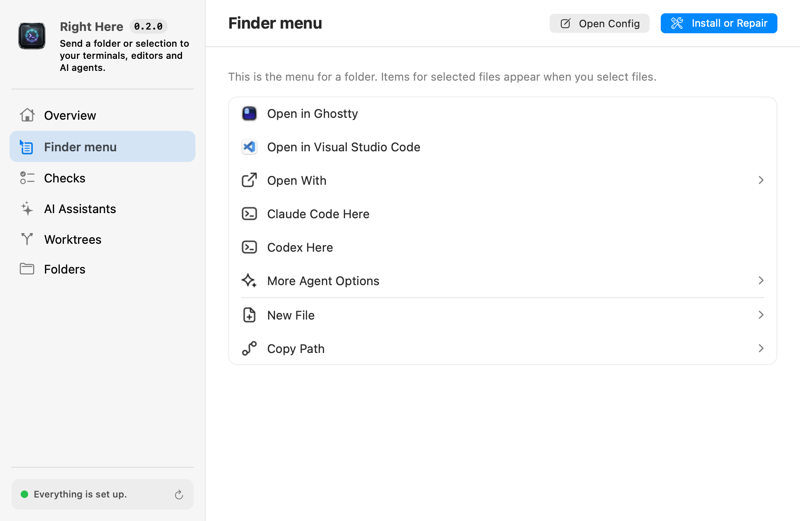
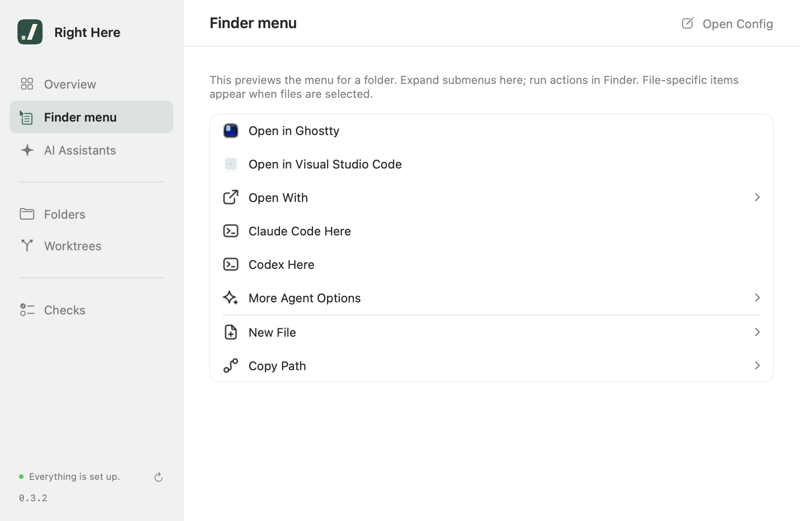
Clarify menu preview interactions and refresh product screenshots

diff --git a/Sources/RightHereCore/Localization/Localizations.generated.swift b/Sources/RightHereCore/Localization/Localizations.generated.swift
@@ -2386,36 +2386,36 @@ enum Localizations {
     ]
 
     private static let appMenuCaption: [String: String] = [
-        "en": "This is the menu for a folder. Items for selected files appear when you select files.",
-        "ar": "هذه قائمة المجلد. تظهر العناصر الخاصة بالملفات المحددة عند تحديد ملفات.",
-        "bn": "এটি একটি ফোল্ডারের মেনু। আপনি ফাইল নির্বাচন করলে নির্বাচিত ফাইলের জন্য আইটেমগুলো দেখা যায়।",
-        "de": "Das ist das Menü für einen Ordner. Befehle für ausgewählte Dateien erscheinen, wenn du Dateien auswählst.",
-        "el": "Αυτό είναι το μενού για έναν φάκελο. Τα στοιχεία για επιλεγμένα αρχεία εμφανίζονται όταν επιλέξετε αρχεία.",
-        "es": "Este es el menú para una carpeta. Los comandos para los archivos seleccionados aparecen cuando seleccionas archivos.",
-        "fa": "این منوی یک پوشه است. گزینههای مربوط به فایلهای انتخابشده وقتی فایل انتخاب میکنید ظاهر میشوند.",
-        "fr": "Voici le menu d’un dossier. Les commandes pour les fichiers sélectionnés apparaissent lorsque vous sélectionnez des fichiers.",
-        "he": "זהו התפריט לתיקייה. פריטים עבור הקבצים שנבחרו מופיעים כשאתם בוחרים קבצים.",
-        "hi": "यह एक फ़ोल्डर का मेनू है। चयनित फ़ाइलों के आइटम तभी दिखते हैं, जब आप फ़ाइलें चुनते हैं।",
-        "id": "Ini adalah menu untuk folder. Item untuk file yang dipilih muncul saat Anda memilih file.",
-        "it": "Questo è il menu per una cartella. I comandi per i file selezionati compaiono quando selezioni dei file.",
-        "ja": "これはフォルダ用のメニューです。選択したファイル向けの項目は、ファイルを選択したときに表示されます。",
-        "ko": "이것은 폴더용 메뉴입니다. 선택한 파일에 해당하는 항목은 파일을 선택하면 나타납니다.",
-        "mr": "हा एका फोल्डरचा मेनू आहे. निवडलेल्या फाइल्ससाठीचे आयटम्स तुम्ही फाइल्स निवडता तेव्हा दिसतात.",
-        "ms": "Ini ialah menu untuk folder. Item untuk fail yang dipilih muncul apabila anda memilih fail.",
-        "nl": "Dit is het menu voor een map. Opdrachten voor geselecteerde bestanden verschijnen wanneer je bestanden selecteert.",
-        "pl": "To jest menu dla folderu. Pozycje dotyczące plików pojawiają się dopiero po ich zaznaczeniu.",
-        "pt-BR": "Este é o menu para uma pasta. Os itens para arquivos aparecem somente quando arquivos são selecionados.",
-        "ro": "Acesta este meniul pentru un dosar. Elementele pentru fișiere apar doar la selectarea fișierelor.",
-        "ru": "Это меню для папки. Пункты для выбранных файлов появляются только при выборе файлов.",
-        "ta": "இது ஒரு கோப்புறைக்கான மெனு. நீங்கள் கோப்புகளைத் தேர்ந்தெடுக்கும்போது, தேர்ந்தெடுத்த கோப்புகளுக்கான உருப்படிகள் தோன்றும்.",
-        "te": "ఇది ఫోల్డర్ కోసం మెనూ. మీరు ఫైల్స్ ఎంచుకున్నప్పుడు, ఎంచుకున్న ఫైల్స్ కోసం అంశాలు కనిపిస్తాయి.",
-        "th": "นี่คือเมนูสำหรับโฟลเดอร์ รายการสำหรับไฟล์ที่เลือกจะปรากฏขึ้นเมื่อคุณเลือกไฟล์",
-        "tr": "Bu, bir klasör için menüdür. Seçili dosyalara yönelik öğeler, dosya seçtiğinizde görünür.",
-        "uk": "Це меню для папки. Пункти для файлів відображаються лише тоді, коли файли виділено.",
-        "ur": "یہ فولڈر کا مینو ہے۔ منتخب فائلوں سے متعلق آئٹمز اس وقت ظاہر ہوتے ہیں جب آپ فائلیں منتخب کرتے ہیں۔",
-        "vi": "Đây là menu cho một thư mục. Các mục dành cho tệp đã chọn chỉ xuất hiện khi bạn chọn tệp.",
-        "zh-Hans": "这是文件夹的菜单。选中文件时，针对所选文件的项目才会出现。",
-        "zh-Hant": "這是資料夾的選單。選取檔案時，針對所選檔案的項目才會出現。",
+        "en": "This previews the menu for a folder. Expand submenus here; run actions in Finder. File-specific items appear when files are selected.",
+        "ar": "هذه معاينة لقائمة مجلد. يمكنك توسيع القوائم الفرعية هنا؛ أما تنفيذ الإجراءات فيكون في فايندر. تظهر العناصر الخاصة بالملفات عند تحديد ملفات.",
+        "bn": "এখানে একটি ফোল্ডারের মেনুর পূর্বরূপ দেখানো হচ্ছে। এখানে সাবমেনুগুলি প্রসারিত করুন; কাজগুলি চালাতে Finder ব্যবহার করুন। ফাইল নির্বাচন করলে ফাইল-নির্দিষ্ট আইটেম দেখা যায়।",
+        "de": "Dies ist eine Vorschau des Menüs für einen Ordner. Untermenüs lassen sich hier aufklappen; Aktionen führen Sie im Finder aus. Einträge für Dateien erscheinen, wenn Dateien ausgewählt sind.",
+        "el": "Αυτή είναι μια προεπισκόπηση του μενού ενός φακέλου. Αναπτύξτε τα υπομενού εδώ· εκτελέστε τις ενέργειες στο Finder. Οι επιλογές για αρχεία εμφανίζονται όταν επιλέγετε αρχεία.",
+        "es": "Esta es una vista previa del menú de una carpeta. Aquí puede desplegar los submenús; las acciones se ejecutan en el Finder. Las opciones para archivos aparecen al seleccionar archivos.",
+        "fa": "این پیشنمایش منوی یک پوشه است. زیرمنوها را اینجا باز کنید؛ عملیات را در Finder انجام دهید. گزینههای مخصوص فایلها هنگام انتخاب فایل نمایش داده میشوند.",
+        "fr": "Voici un aperçu du menu d’un dossier. Dépliez les sous-menus ici ; exécutez les actions dans le Finder. Les options propres aux fichiers apparaissent lorsque des fichiers sont sélectionnés.",
+        "he": "זו תצוגה מקדימה של תפריט עבור תיקייה. אפשר להרחיב כאן תפריטי משנה; את הפעולות מבצעים ב-Finder. פריטים המיועדים לקבצים מופיעים כשבוחרים קבצים.",
+        "hi": "यह फ़ोल्डर के मेनू का पूर्वावलोकन है। यहाँ सबमेनू खोलें; कार्रवाइयाँ चलाने के लिए Finder का उपयोग करें। फ़ाइलें चुनने पर फ़ाइलों से संबंधित विकल्प दिखाई देते हैं।",
+        "id": "Ini adalah pratinjau menu untuk folder. Buka submenu di sini; jalankan tindakan di Finder. Item khusus file muncul saat file dipilih.",
+        "it": "Questa è un’anteprima del menu di una cartella. Espandi qui i sottomenu; esegui le azioni nel Finder. Le voci specifiche per i file appaiono quando selezioni dei file.",
+        "ja": "フォルダのメニューのプレビューです。ここではサブメニューを展開できます。アクションはFinderで実行してください。ファイル用の項目は、ファイルを選択すると表示されます。",
+        "ko": "폴더 메뉴의 미리보기입니다. 여기서는 하위 메뉴를 펼칠 수 있으며, 동작은 Finder에서 실행하세요. 파일을 선택하면 파일 관련 항목이 표시됩니다.",
+        "mr": "हे फोल्डरच्या मेनूचे पूर्वावलोकन आहे. येथे उपमेनू उघडा; कृती करण्यासाठी Finder वापरा. फाइल निवडल्यावर फाइलशी संबंधित पर्याय दिसतात.",
+        "ms": "Ini ialah pratonton menu untuk folder. Kembangkan submenu di sini; jalankan tindakan dalam Finder. Item khusus fail muncul apabila fail dipilih.",
+        "nl": "Dit is een voorvertoning van het menu voor een map. Klap hier submenu’s open; voer acties uit in de Finder. Opties voor bestanden verschijnen wanneer u bestanden selecteert.",
+        "pl": "To podgląd menu folderu. Tutaj możesz rozwijać podmenu; czynności wykonuj w Finderze. Pozycje dotyczące plików pojawiają się po zaznaczeniu plików.",
+        "pt-BR": "Esta é uma prévia do menu de uma pasta. Expanda os submenus aqui; execute as ações no Finder. Os itens específicos de arquivos aparecem quando você seleciona arquivos.",
+        "ro": "Aceasta este o previzualizare a meniului unui dosar. Extindeți submeniurile aici; executați acțiunile în Finder. Opțiunile pentru fișiere apar când selectați fișiere.",
+        "ru": "Это предварительный просмотр меню папки. Здесь можно раскрыть подменю, а действия выполняются в Finder. Пункты для файлов появляются при выборе файлов.",
+        "ta": "இது ஒரு கோப்புறையின் மெனு முன்னோட்டம். இங்கே துணைமெனுக்களை விரிவாக்கலாம்; செயல்களை Finder-இல் இயக்கவும். கோப்புகளைத் தேர்ந்தெடுக்கும்போது கோப்புகளுக்கான உருப்படிகள் தோன்றும்.",
+        "te": "ఇది ఫోల్డర్ మెనూ ప్రివ్యూ. ఇక్కడ ఉపమెనూలను విస్తరించవచ్చు; చర్యలను Finderలో అమలు చేయండి. ఫైల్లను ఎంచుకున్నప్పుడు వాటికి సంబంధించిన అంశాలు కనిపిస్తాయి.",
+        "th": "นี่คือตัวอย่างเมนูสำหรับโฟลเดอร์ คุณสามารถขยายเมนูย่อยได้ที่นี่ ส่วนการเรียกใช้คำสั่งให้ทำใน Finder รายการสำหรับไฟล์จะปรากฏเมื่อเลือกไฟล์",
+        "tr": "Bu, bir klasör menüsünün önizlemesidir. Alt menüleri burada genişletin; eylemleri Finder’da çalıştırın. Dosyalara özgü öğeler, dosyalar seçildiğinde görünür.",
+        "uk": "Це попередній перегляд меню папки. Тут можна розгорнути підменю, а дії виконуються у Finder. Пункти для файлів з’являються, коли вибрано файли.",
+        "ur": "یہ فولڈر کے مینو کا پیش نظارہ ہے۔ یہاں ذیلی مینو کھولیں؛ کارروائیاں Finder میں چلائیں۔ فائلیں منتخب کرنے پر فائلوں سے متعلق آئٹمز ظاہر ہوتے ہیں۔",
+        "vi": "Đây là bản xem trước menu của thư mục. Bạn có thể mở rộng menu con tại đây; hãy thực hiện các thao tác trong Finder. Các mục dành riêng cho tệp xuất hiện khi bạn chọn tệp.",
+        "zh-Hans": "文件夹菜单预览。可在此展开子菜单；执行操作请在访达中进行。选中文件后会显示针对文件的项目。",
+        "zh-Hant": "檔案夾選單預覽。可在此展開子選單；執行操作請在 Finder 中進行。選取檔案後會顯示針對檔案的項目。",
     ]
 
     private static let appMenuConfigError: [String: String] = [

diff --git a/Apps/RightHere/SetupPages.swift b/Apps/RightHere/SetupPages.swift
@@ -462,7 +462,7 @@ struct MenuLine: View {
                 .accessibilityHidden(true)
         case .submenu where row.hasChildren:
             Button(action: toggle) { line }
-                .buttonStyle(.plain)
+                .buttonStyle(SetupQuietButtonStyle())
                 .accessibilityValue(l10n.string(row.isExpanded ? .appMenuSubmenuExpanded : .appMenuSubmenuCollapsed))
         case .action, .submenu:
             line.accessibilityElement(children: .combine)
@@ -476,6 +476,7 @@ struct MenuLine: View {
                 .accessibilityHidden(true)
             Text(row.title)
                 .font(.body)
+                .foregroundStyle(.primary)
             Spacer(minLength: 8)
             if row.hasChildren {
                 // Not a rotated chevron: the forward one is drawn mirrored in a right-to-left language, the down one is not.

diff --git a/Sources/RightHereCore/Localization/LocalizedMessage.generated.swift b/Sources/RightHereCore/Localization/LocalizedMessage.generated.swift
@@ -129,7 +129,7 @@ extension LocalizedMessage {
     public static var appLocationTitle: LocalizedMessage { LocalizedMessage(.appLocationTitle) }
     /// MCP configuration copied. Paste it into your assistant's MCP settings.
     public static var appMcpCopied: LocalizedMessage { LocalizedMessage(.appMcpCopied) }
-    /// This is the menu for a folder. Items for selected files appear when you select files.
+    /// This previews the menu for a folder. Expand submenus here; run actions in Finder. File-specific items appear when files are selected.
     public static var appMenuCaption: LocalizedMessage { LocalizedMessage(.appMenuCaption) }
     /// The menu preview is unavailable until the configuration errors are fixed.
     public static var appMenuConfigError: LocalizedMessage { LocalizedMessage(.appMenuConfigError) }

diff --git a/docs/development/MANUAL_CHECKS.md b/docs/development/MANUAL_CHECKS.md
@@ -96,7 +96,9 @@ open one, and the preview is the same code as the extension's, not Finder's own 
 2. Right-click the empty background of a folder window. The entries, their order, the separators, the icons (the
    menu's own glyphs and the apps' icons) and the titles match the window's list. Click a line with a chevron in the
    window: its entries open in place, indented, and the chevron turns down; open the same submenu in Finder and compare
-   its entries and separators. Clicking an entry in the window does nothing.
+   its entries and separators. The introduction identifies the list as a preview and directs actual actions to Finder.
+   Hovering and pressing a submenu gives feedback without dimming its title; static entries remain readable and do nothing
+   when clicked. With keyboard navigation enabled, reach a submenu, verify its focus indication and expand it with Space.
 3. Change `[menu] items`, or enable another agent, then refresh with Command-R: the window and
    the Finder menu both follow the config. An app that is not installed is missing from both.
 4. Put a syntax error in the config and refresh: the "Finder menu" section says the config errors must be fixed and offers Show Checks.
@@ -197,3 +199,8 @@ open one, and the preview is the same code as the extension's, not Finder's own 
     changed. Accessibility exposed every row action and its complete path. The current system's Tab navigation remained on
     text fields; full keyboard-navigation mode and spoken VoiceOver still need the manual check above. Dark appearance was
     inspected in SwiftUI renders, including dark text on the light primary button. Dock was not verified in this revision.
+
+    A follow-up native review verified submenu expansion and collapse with the corresponding accessibility values, and static
+    leaf rows. In AI Assistants, an unusually long helper path wrapped inside the code block and copied in full (pasted back
+    into the app's search field to compare). Copy Plugin Commands at the bottom of the page kept both the confirmation and
+    its paste destination visible above the scrolled content. The review used a separate app identity and temporary home.

diff --git a/docs/decisions/0033-current-design-language.md b/docs/decisions/0033-current-design-language.md
@@ -38,7 +38,9 @@ so that optional path was closed without accepting it. No system-generated icon 
   replace it. The scratch renderer has no asset catalog and uses the specified default color for its canned previews.
 - The healthy Overview gives the readiness statement and its next action the strongest hierarchy. A bounded, labeled preview
   reads the actual menu tree; it shows up to five entries and preserves submenu indicators. The full preview remains one click
-  away. Default apps use light information rows. First-run, incomplete setup and failed checks retain their own states.
+  away. The full preview explains that submenus expand here and actions run in Finder; only expandable rows receive hover and
+  pressed feedback, with their text kept at normal contrast. Default apps use light information rows. First-run, incomplete
+  setup and failed checks retain their own states.
 - First-run choices use restrained rectangular controls with separate single- and multiple-choice marks. There is one prominent
   Set Up action and no enclosing colored card. Long descriptions and additional agent choices remain available.
 - Folders and worktrees use a shared list container with inset separators. Names lead, paths are secondary, and actions remain

diff --git a/docs/development/WEBSITE.md b/docs/development/WEBSITE.md
@@ -18,7 +18,7 @@ fonts or scripts). It is served by GitHub Pages from that branch.
   and menu): they show canned data, the same on every Mac, with no path, last action, agent or terminal of the Mac that renders
   them, and the script stops when a canned text names that Mac's home folder or account.
 - The screenshots to use, each light and dark (`--dark`), 860 points wide at 2x and resized to 800 px: `en --demo --tab menu` for
-  the hero (the Finder menu section next to the sidebar of six sections; plain `--demo` is the Overview, which is mostly empty),
+  the hero (the Finder menu section next to the sidebar of six sections; plain `--demo` shows Overview with readiness and a bounded menu preview),
   `en --first-run` for the very first run (no config file, the choice of terminal, editor and agents), `en --set-up` for just after
   Set Up (what it did, and the Finder extension still to switch on) and `ja --demo --tab menu` for the translated window. The
   site draws its menu mock-up from `tools/rh-menu-output.json`, so `--submenus` is not used. The icons of the menu's apps

diff --git a/README.md b/README.md
@@ -34,7 +34,7 @@ The open-source action layer for macOS: send folders and selections to terminals
 
 <picture>
   <source media="(prefers-color-scheme: dark)" srcset="docs/images/setup-dark.png">
-  <img src="docs/images/setup-light.png" alt="The Right Here setup window: a sidebar of six sections (Overview, Finder menu, Checks, AI Assistants, Worktrees, Folders) and a preview of the Finder menu for a folder: Open in Ghostty, Open in Visual Studio Code, Claude Code Here, Codex Here, New File and Copy Path." width="640">
+  <img src="docs/images/setup-light.png" alt="The Right Here setup window: the current-directory icon, a grouped sidebar, and the Finder menu preview. Submenus expand here; actions run in Finder." width="640">
 </picture>
 
 <sub>The setup window with example data, rendered without a screen from the app's own view.</sub>
